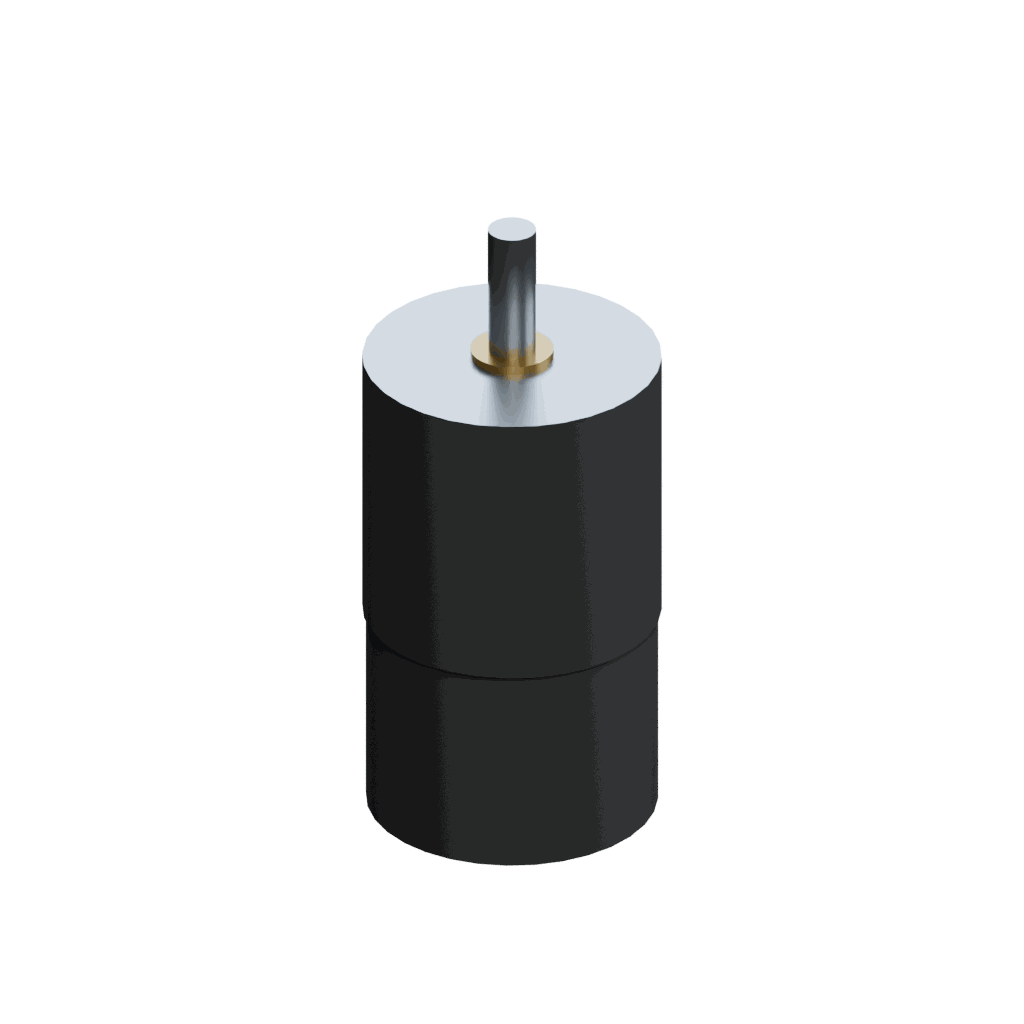
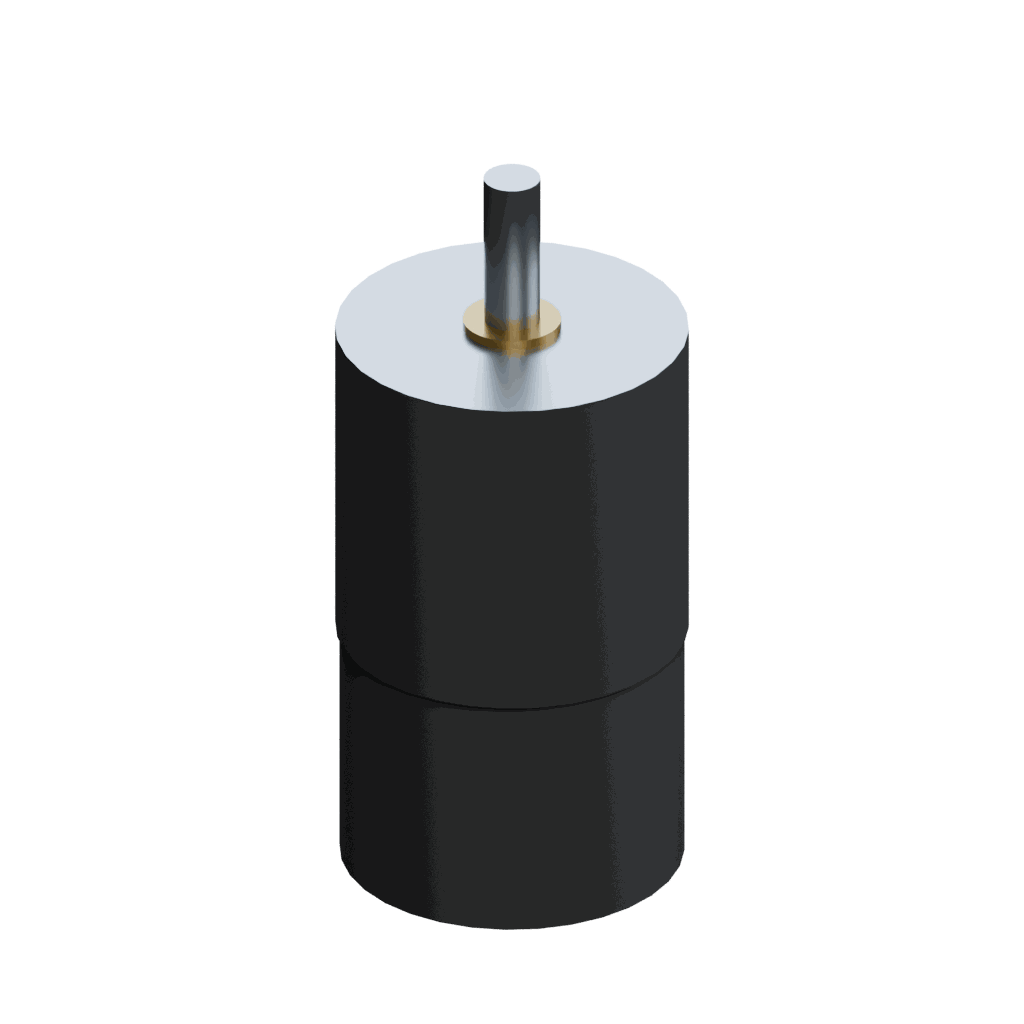
fix(parts): frame round and curved parts consistently

Changed region(s): [[0.3125, 0.1562, 0.6875, 0.9062]]

diff --git a/assets/blender/parts/create_library.py b/assets/blender/parts/create_library.py
@@ -92,7 +92,7 @@ def render(key):
     points=[o.matrix_world@Vector(c) for o in objects for c in o.bound_box]
     centre=Vector(tuple((min(p[i] for p in points)+max(p[i] for p in points))/2 for i in range(3)))
     # One physical framing scale (220 mm) and 3/4 direction across the library.
-    cd=bpy.data.cameras.new('Library camera');cam=bpy.data.objects.new('Library camera',cd);scene.collection.objects.link(cam);cam.location=centre+Vector((.32,-.44,.30));cam.rotation_euler=(centre-cam.location).to_track_quat('-Z','Y').to_euler();cd.type='ORTHO';bpy.context.view_layer.update();view=cam.matrix_world.inverted();projected=[view@p for p in points];cd.ortho_scale=max(max(p[i] for p in projected)-min(p[i] for p in projected) for i in (0,1))/.75;scene.camera=cam
+    cd=bpy.data.cameras.new('Library camera');cam=bpy.data.objects.new('Library camera',cd);scene.collection.objects.link(cam);cam.location=centre+Vector((.32,-.44,.30));cam.rotation_euler=(centre-cam.location).to_track_quat('-Z','Y').to_euler();cd.type='ORTHO';bpy.context.view_layer.update();view=cam.matrix_world.inverted();projected=[view@p for p in points];cd.ortho_scale=max(max(p[i] for p in projected)-min(p[i] for p in projected) for i in (0,1))/.75;calibration=HERE/'render-frame-calibration.json';cd.ortho_scale*=json.loads(calibration.read_text()).get(key,1) if calibration.exists() else 1;scene.camera=cam
     world=bpy.data.worlds.new('Library neutral studio');world.use_nodes=True;world.node_tree.nodes['Background'].inputs[1].default_value=.1;scene.world=world
     for name,p,power,color in [('Key',(.3,-.3,.5),2.2,(1,.9,.8)),('Rim',(-.3,.3,.35),2.6,(.65,.8,1)),('Fill',(.3,.3,.2),1.0,(1,1,1))]:
         data=bpy.data.lights.new(name,'AREA');data.energy=power;data.size=.35;data.color=color;obj=bpy.data.objects.new(name,data);scene.collection.objects.link(obj);obj.location=centre+Vector(p);obj.rotation_euler=(centre-obj.location).to_track_quat('-Z','Y').to_euler()
